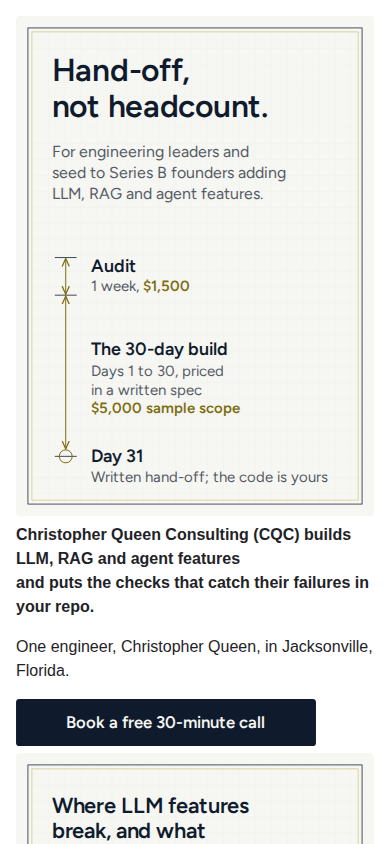
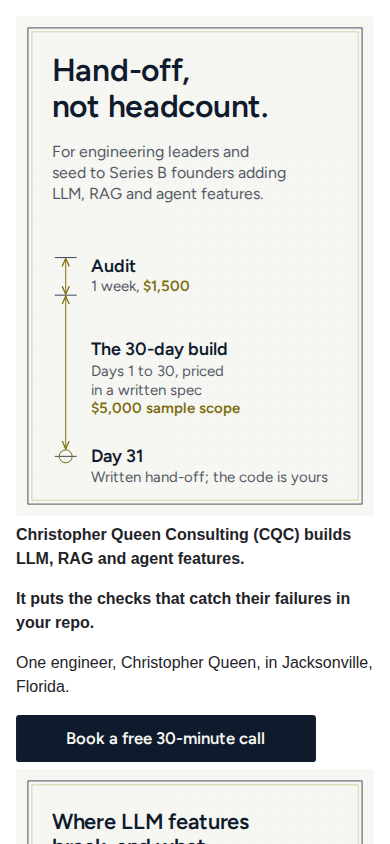
preview: captures of the branch render, render-9ea8346 (review only, never merge)

Changed region(s): [[0.0308, 0.6777, 0.9538, 1.0]]

diff --git a/review-shots/index.html b/review-shots/index.html
@@ -1245,7 +1245,8 @@ body { margin: 0; background: #ffffff; }
   <img alt="Christopher Queen Consulting home page. Hand-off, not headcount. For engineering leaders and seed to Series B founders adding LLM, RAG and agent features. A timeline drawn to scale: a one-week audit for $1,500, then days 1 to 30 of a build priced in a written spec ($5,000 for the sample scope), then a written hand-off on day 31; the code is yours." src="https://raw.githubusercontent.com/christopherqueenconsulting/.github/feat/org-profile-tabs/profile/assets/hero-light.svg" width="100%">
 </picture></themed-picture>
 </a>
-<p dir="auto"><strong>Christopher Queen Consulting (CQC) builds LLM, RAG and agent features<br>and puts the checks that catch their failures in your repo.</strong></p>
+<p dir="auto"><strong>Christopher Queen Consulting (CQC) builds LLM, RAG and agent features.</strong></p>
+<p dir="auto"><strong>It puts the checks that catch their failures in your repo.</strong></p>
 <p dir="auto">One engineer, Christopher Queen, in Jacksonville, Florida.</p>
 <a href="https://christopherqueenconsulting.com/schedule/?utm_source=github&amp;utm_medium=org_profile" rel="nofollow">
 <themed-picture data-catalyst-inline="true"><picture>
